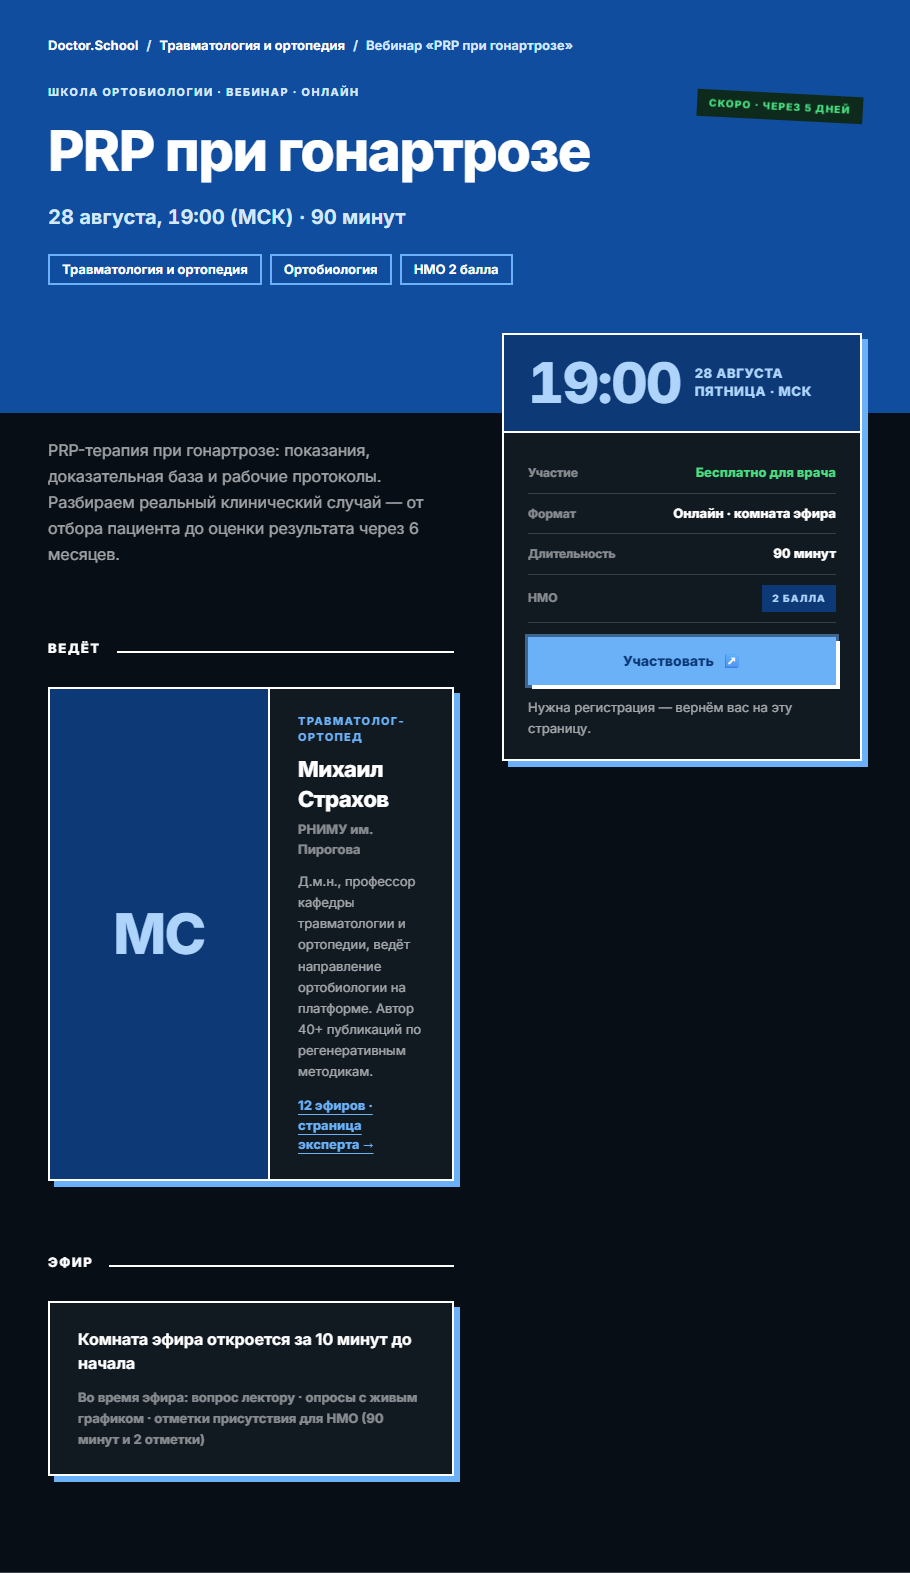
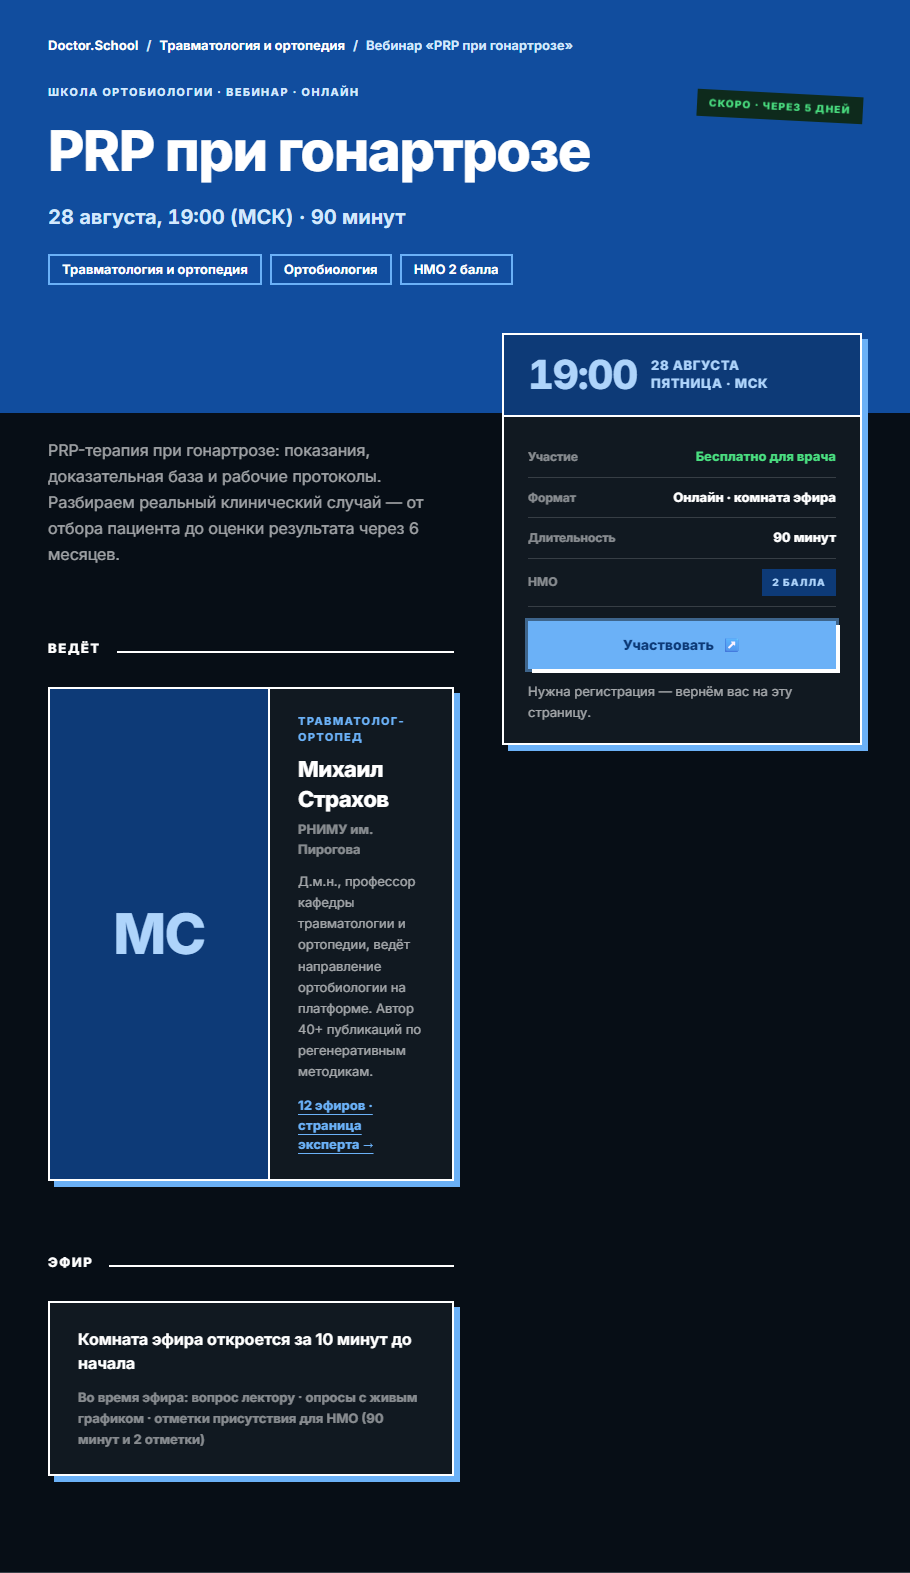
fix(1764): Mode-a rework on #1816 — time plate text-3xl per canvas; EARS-4 traceability for the layout test
Claude-Session: https://claude.ai/code/session_017jANYWKrzV4cBLhhvMj4R7

Changed region(s): [[0.5538, 0.2181, 0.9538, 0.4984]]

diff --git a/packages/design-system/src/blocks/event-signup-card.tsx b/packages/design-system/src/blocks/event-signup-card.tsx
@@ -97,7 +97,7 @@ export function EventSignupCard({
     >
       <div className="border-2 border-border bg-card shadow-lg">
         <div className="flex items-center gap-3.5 border-b-2 border-border bg-tint px-6 py-5">
-          <span className="text-4xl font-extrabold leading-none tracking-tight tabular-nums text-tint-foreground">
+          <span className="text-3xl font-extrabold leading-none tracking-tight tabular-nums text-tint-foreground">
             {timeLabel}
           </span>
           <span className="text-caption font-extrabold uppercase leading-snug tracking-wider text-tint-foreground">

diff --git a/packages/design-system/src/blocks/event-page-shell.test.tsx b/packages/design-system/src/blocks/event-page-shell.test.tsx
@@ -29,7 +29,7 @@ describe("<EventPageShell>", () => {
     expect(screen.getByTestId("flow-slot")).toBeInTheDocument();
   });
 
-  it("020 EARS-19: the sign-up column shall read FIRST on the narrow canvas and second on the wide one", () => {
+  it("020 EARS-4: the sign-up column shall read FIRST on the narrow canvas and second on the wide one", () => {
     render(<EventPageShell aside={<div />}>flow</EventPageShell>);
 
     const aside = screen.getByTestId("event-page-aside");
